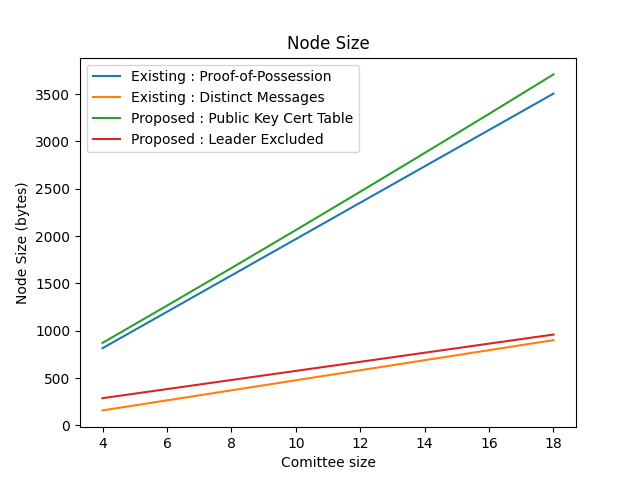
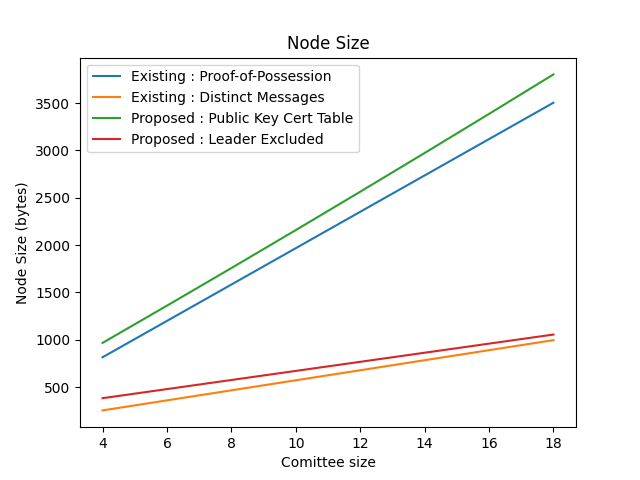
finished refactor

diff --git a/committee.py b/committee.py
@@ -69,19 +69,19 @@ class Committee:
         pops = {}
         for x in range(self.committeeSize):
             if self.protocol == 'pki':
-                if x == 0: self.nodes.append(Node(secrets.token_bytes(32), True, 5074, bytes([1, 2, 3, 4, 5]), self.protocol,self.committeeSize,x, CAReference, BlockchainReference, NULL))
-                else : self.nodes.append(Node(secrets.token_bytes(32), False, 5074, bytes([1, 2, 3, 4, 5]), self.protocol,self.committeeSize,x, CAReference, BlockchainReference, NULL))                
+                if x == 0: self.nodes.append(Node(secrets.token_bytes(32), True, 5074, bytes([1, 2, 3, 4, 5]), self.protocol,self.committeeSize,x, CAReference, BlockchainReference, PopTable()))
+                else : self.nodes.append(Node(secrets.token_bytes(32), False, 5074, bytes([1, 2, 3, 4, 5]), self.protocol,self.committeeSize,x, CAReference, BlockchainReference, PopTable()))                
                 certificates.append(self.nodes[len(self.nodes)-1].cert)
             elif self.protocol == 'basic':
-                if x == 0: self.nodes.append(Node(secrets.token_bytes(32), True, 5074, bytes([1, 2, 3, 4, 5]), self.protocol,self.committeeSize,x, NULL, NULL, NULL))
-                else : self.nodes.append(Node(secrets.token_bytes(32), False, 5074, bytes([1, 2, 3, 4, 5]), self.protocol,self.committeeSize,x, NULL, NULL, NULL))
+                if x == 0: self.nodes.append(Node(secrets.token_bytes(32), True, 5074, bytes([1, 2, 3, 4, 5]), self.protocol,self.committeeSize,x, CAReference, NULL, PopTable()))
+                else : self.nodes.append(Node(secrets.token_bytes(32), False, 5074, bytes([1, 2, 3, 4, 5]), self.protocol,self.committeeSize,x, CAReference, NULL, PopTable()))
             elif self.protocol == 'pop':
-                if x == 0: self.nodes.append(Node(secrets.token_bytes(32), True, 5074, bytes([1, 2, 3, 4, 5]), self.protocol,self.committeeSize,x, NULL, NULL, popTable))
-                else : self.nodes.append(Node(secrets.token_bytes(32), False, 5074, bytes([1, 2, 3, 4, 5]), self.protocol,self.committeeSize,x, NULL, NULL, popTable))
+                if x == 0: self.nodes.append(Node(secrets.token_bytes(32), True, 5074, bytes([1, 2, 3, 4, 5]), self.protocol,self.committeeSize,x, CAReference, NULL, popTable))
+                else : self.nodes.append(Node(secrets.token_bytes(32), False, 5074, bytes([1, 2, 3, 4, 5]), self.protocol,self.committeeSize,x, CAReference, NULL, popTable))
                 pops[bytes(self.nodes[len(self.nodes)-1].pk)] = self.nodes[len(self.nodes)-1].pop
             elif self.protocol == 'le':
-                if x == 0: self.nodes.append(Node(secrets.token_bytes(32), True, 5074, bytes([1, 2, 3, 4, 5]), self.protocol,self.committeeSize,x, NULL, NULL, NULL))
-                else : self.nodes.append(Node(secrets.token_bytes(32), False, 5074, bytes([1, 2, 3, 4, 5]), self.protocol,self.committeeSize,x, NULL, NULL, NULL))
+                if x == 0: self.nodes.append(Node(secrets.token_bytes(32), True, 5074, bytes([1, 2, 3, 4, 5]), self.protocol,self.committeeSize,x, CAReference, NULL, PopTable()))
+                else : self.nodes.append(Node(secrets.token_bytes(32), False, 5074, bytes([1, 2, 3, 4, 5]), self.protocol,self.committeeSize,x, CAReference, NULL, PopTable()))
             
         BlockchainReference.addCerts(certificates)
         popTable.addPops(pops)

diff --git a/node.py b/node.py
@@ -29,12 +29,10 @@ class Node:
         self.nodeSize = 0 
         self.blockhash = ''
         self.certtable = []
-        self.pks = []
-        self.msgs = []
-        self.pops = []
         self.aggregatedSignature = []
         self.popTable = PopTable
         if self.protocol == 'pki' : self.cert = CAReference.createCert({'name':self.nodeID,'pk':self.pk})
+        else : self.cert = CAReference.createEmptyCert()
         self.blockchain = BlockchainReference
         self.pop = self.getProof()
 
@@ -44,14 +42,11 @@ class Node:
             for entry in data :
                 size += len(bytes(entry))
 
-        if self.protocol == 'pki' : 
-            for cert in self.certtable:
-                size+=cert.size()
-            size += self.cert.size()
-        if self.protocol == 'pop':
-            size += self.popTable.size() 
-            size += len(bytes(self.pop))
-            size += len(bytes(self.pops))  
+        for entry in self.certtable: size+=entry.size()
+        size += self.cert.size()
+        
+        size += self.popTable.size() 
+        size += len(bytes(self.pop))
 
         size += len(bytes(self.pks))
         size += len(bytes(self.msgs)) 
@@ -80,6 +75,8 @@ class Node:
 
     def runSignature(self, state):
         if self.protocol == 'pki' : self.certtable = self.blockchain.getCerts()
+        else : self.certtable = []
+
         if self.isLeader is True: self.leaderListen(state)
         else: self.memberListen(state)
         return
@@ -221,7 +218,7 @@ class Node:
         pks = []
         msgs = []
         sigs = []
-
+        pops = []
         if state == 'pre-prepare':
             while len(threads) < (self.committeeSize-1):
                 conn, address = server_socket.accept()  
@@ -233,7 +230,7 @@ class Node:
         elif state == 'prepare' or state == 'commit':
             while len(threads) != (self.committeeSize-1):
                 conn, address = server_socket.accept()  # accept new connection
-                x = threading.Thread(target=self.multiSig, args=(conn, sigs, pks, msgs, self.pops))
+                x = threading.Thread(target=self.multiSig, args=(conn, sigs, pks, msgs, pops))
                 threads.append(x)
                 x.start()
         

diff --git a/ca.py b/ca.py
@@ -21,6 +21,10 @@ class CA:
         cert = Cert(credentials['name'],credentials['pk'],signature)
         return cert
 
+    def createEmptyCert(self):
+        return Cert(bytes(),bytes(),bytes())
+    
+
     def sign(self, credentials):
         credString = bytes(credentials['name'])+bytes(credentials['pk'])
         signature = PopSchemeMPL.sign(self.sk, credString)
